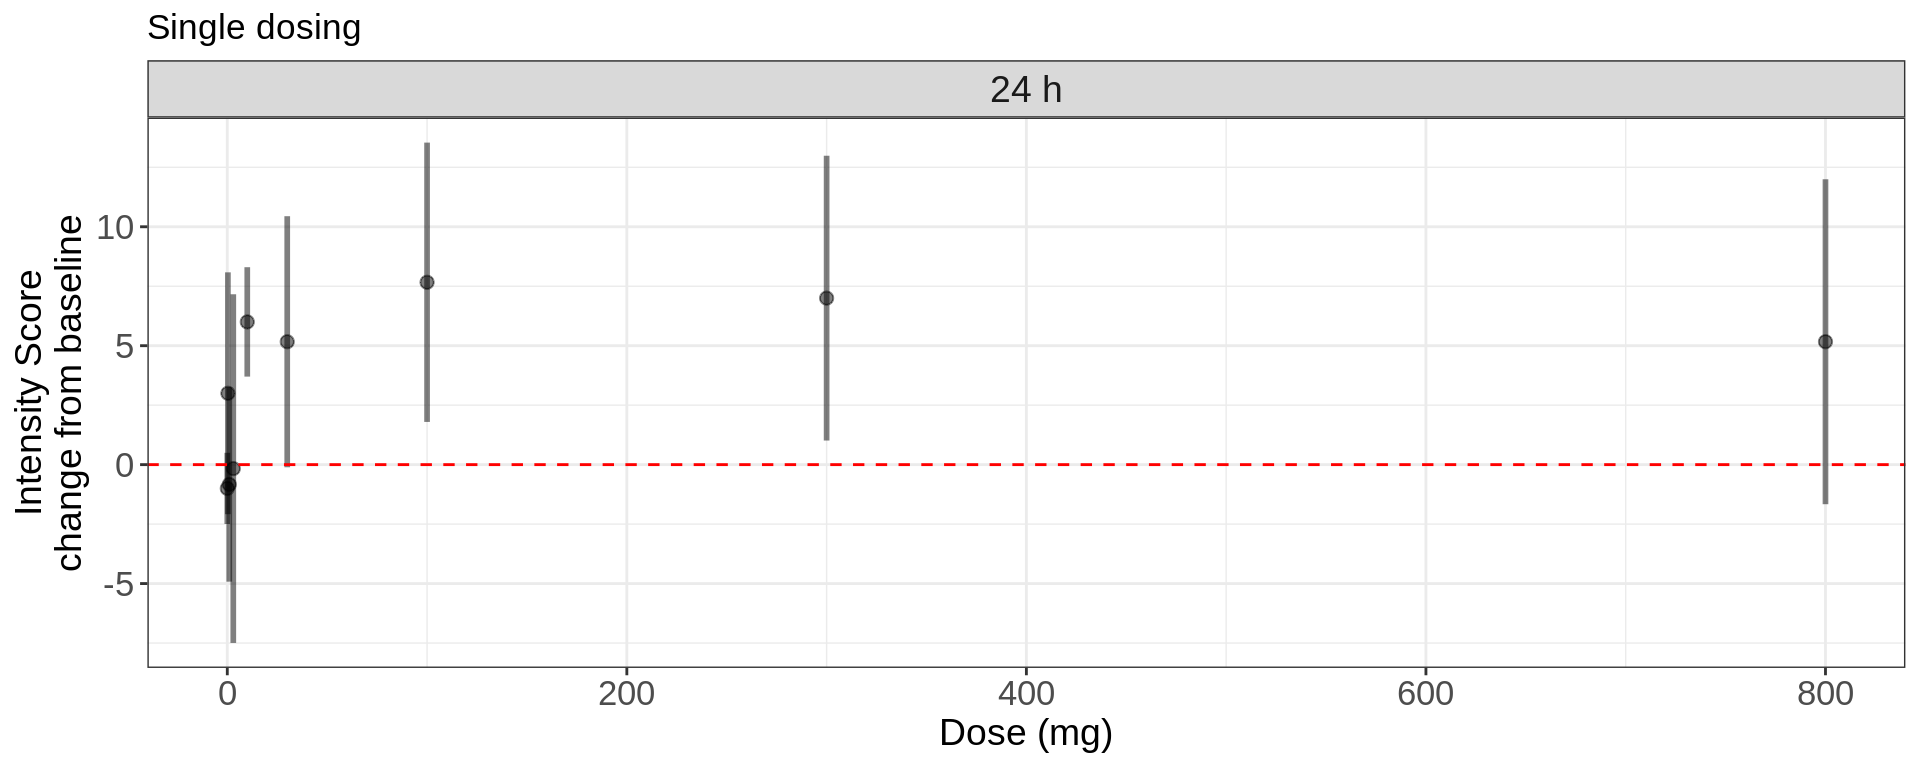
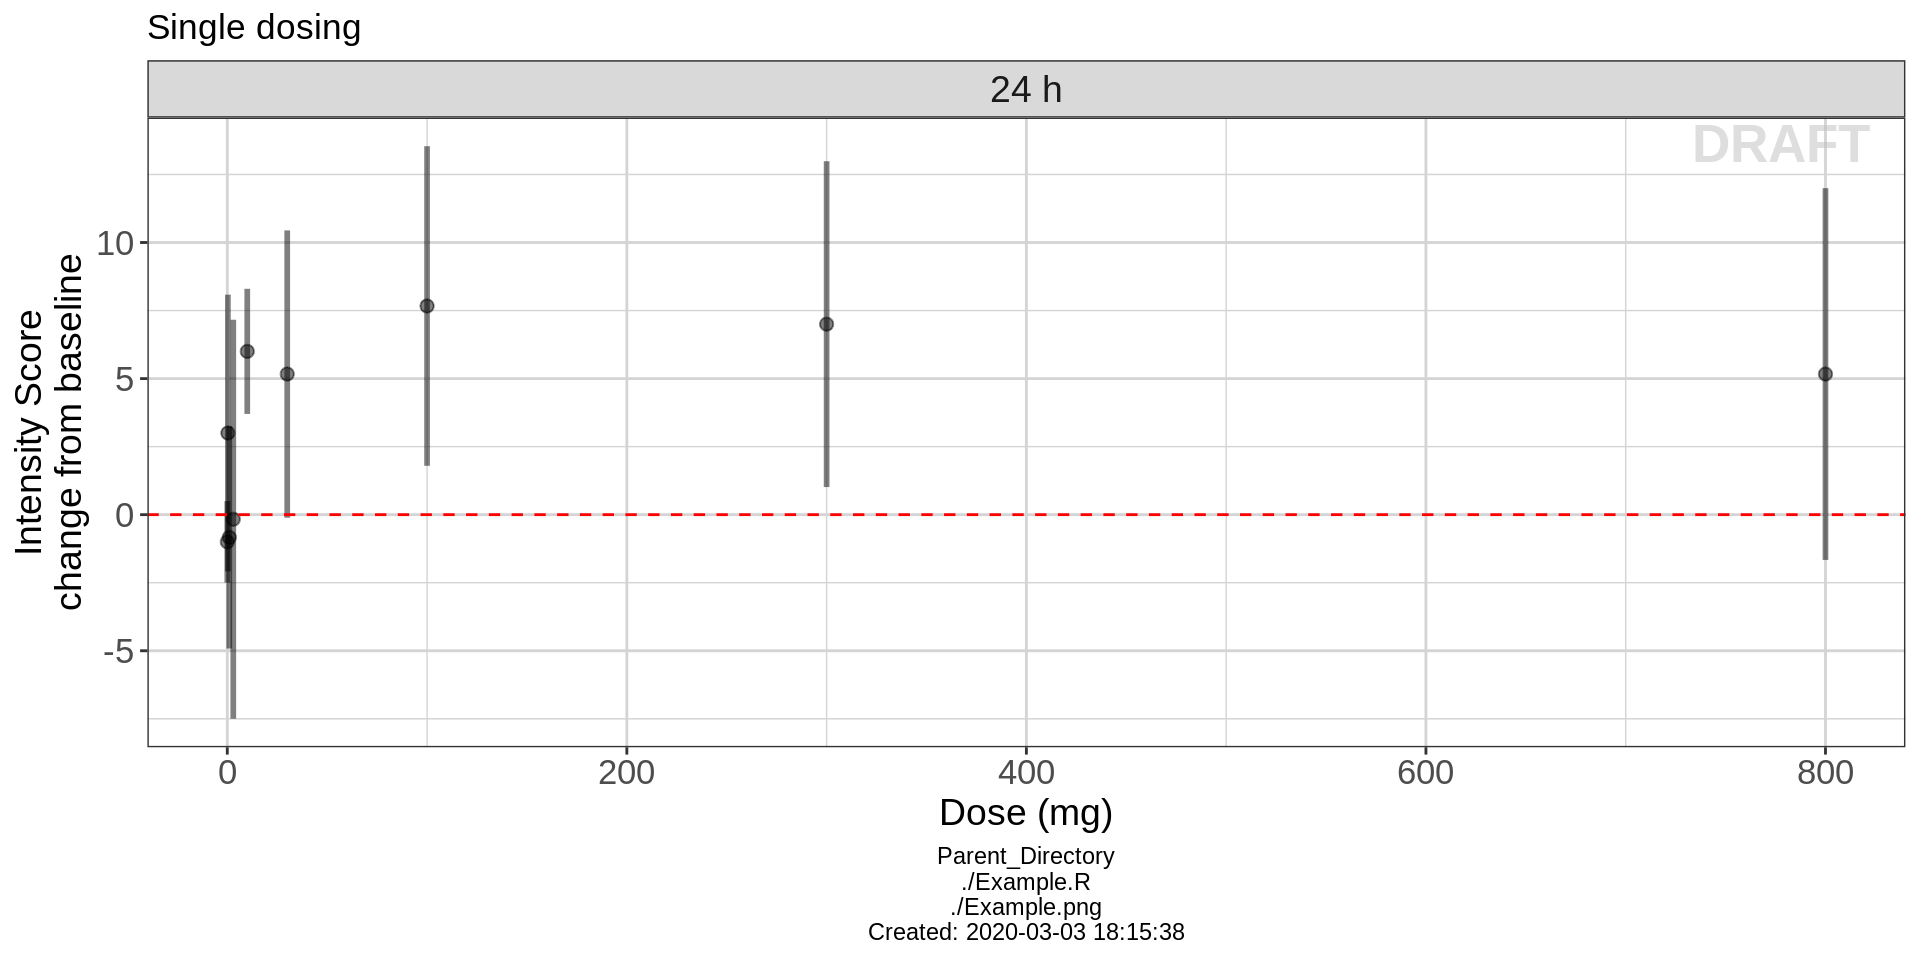
update PD real example page to use xgxr package

diff --git a/Rmarkdown/www/Multiple_Ascending_Dose_PD_real_example.html b/Rmarkdown/www/Multiple_Ascending_Dose_PD_real_example.html
@@ -641,9 +641,9 @@ pd_data &lt;- pkpd_data %&gt;%
   mutate(CHG = LIDV - LIDV[NOMTIME == 0]) ##create column with change from baseline
 
 # Separate the SAD and MAD datasets for plotting
-data_to_plot &lt;- pd_data
-data_to_plot_single_dosing &lt;- data_to_plot %&gt;% subset(MAD == 0)
-data_to_plot_multiple_dosing &lt;- data_to_plot %&gt;% 
+pd_single_dosing &lt;- pd_data %&gt;% 
+  subset(MAD == 0)
+pd_multiple_dosing &lt;- pd_data %&gt;% 
   subset(MAD == 1 &amp; DOSE != 100) ##remove dose = 100mg as there is only zero time for that.
 
 #units and labels
@@ -682,22 +682,23 @@ dirs = list(
 ytitle &lt;- ylab(paste0(pd_label,&quot;\nchange from baseline&quot;))
 xtitle &lt;- xlab(&quot;Time (days)&quot;)
 
-plot2 &lt;- ggplot(data_to_plot_multiple_dosing, 
-                aes(y = CHG, x = PROFDAY, group = NOMTIME)) + 
-  geom_boxplot(width = 5) +
-  ggtitle(&quot;Multiple dosing&quot;) + 
-  theme_bw() +
-  ytitle +
-  xtitle +
-  geom_hline(yintercept = 0,
-             color = &quot;red&quot;,linetype = &quot;dashed&quot;) +
-  scale_x_continuous(breaks = c(-1,7,14)) +
-  theme(axis.text = element_text(size = 13), 
+gg &lt;- ggplot(pd_multiple_dosing, 
+                aes(y = CHG, x = PROFDAY, group = NOMTIME)) 
+gg &lt;- gg + geom_boxplot(width = 5)  
+gg &lt;- gg + ggtitle(&quot;Multiple dosing&quot;)  
+gg &lt;- gg + ytitle  
+gg &lt;- gg + xtitle  
+gg &lt;- gg + geom_hline(yintercept = 0,
+             color = &quot;red&quot;,linetype = &quot;dashed&quot;)  
+gg &lt;- gg +  scale_x_continuous(breaks = c(-1,7,14))  
+gg &lt;- gg +  theme(axis.text = element_text(size = 13), 
         axis.title = element_text(size = 14), 
-        strip.text = element_text(size = 14)) +
-  facet_wrap(~DOSE,nrow = 1, label = labelFun)
+        strip.text = element_text(size = 14))  
+gg &lt;- gg +  facet_wrap(~DOSE,nrow = 1, label = labelFun)
+gg &lt;- gg + xgx_annotate_status()
+gg &lt;- gg + xgx_annotate_filenames(dirs)
 
-plot2</code></pre>
+gg</code></pre>
 <p><img src="Multiple_Ascending_Dose_PD_real_example_files/figure-html/unnamed-chunk-3-1.png" width="960" /></p>
 </div>
 </div>
@@ -713,42 +714,43 @@ plot2</code></pre>
 ytitle &lt;- ylab(paste0(pd_label,&quot;\nchange from baseline&quot;))
 xtitle &lt;- xlab(&quot;Dose (mg)&quot;)
 
-plot1 &lt;- ggplot(data_to_plot_single_dosing, 
-                aes(y = CHG, x = factor(DOSE), group = NOMTIME)) + 
-  geom_boxplot(aes(group = factor(DOSE))) +
-  ggtitle(&quot;Single dosing&quot;) + 
-  theme_bw() +
-  ytitle +
-  xtitle +
-  geom_hline(yintercept = 0,
-             color = &quot;red&quot;,linetype = &quot;dashed&quot;) +
-  theme(axis.text = element_text(size = 13),
+gg &lt;- ggplot(pd_single_dosing, 
+                aes(y = CHG, x = factor(DOSE), group = NOMTIME))  
+gg &lt;- gg + geom_boxplot(aes(group = factor(DOSE)))  
+gg &lt;- gg + ggtitle(&quot;Single dosing&quot;)   
+gg &lt;- gg + ytitle + xtitle   
+gg &lt;- gg + geom_hline(yintercept = 0,
+             color = &quot;red&quot;,linetype = &quot;dashed&quot;)   
+gg &lt;- gg + theme(axis.text = element_text(size = 13),
         axis.title = element_text(size = 14),
-        strip.text = element_text(size = 14)) +
-  facet_wrap(~NOMTIME, nrow = 1, label = labelFun)
+        strip.text = element_text(size = 14))   
+gg &lt;- gg + facet_wrap(~NOMTIME, nrow = 1, label = labelFun)
+gg &lt;- gg + xgx_annotate_status()
+gg &lt;- gg + xgx_annotate_filenames(dirs)
 
-plot1 </code></pre>
+gg</code></pre>
 <p><img src="Multiple_Ascending_Dose_PD_real_example_files/figure-html/unnamed-chunk-4-1.png" width="960" /></p>
 <p>In the plot above, the doses are uniformly spaced, not proportionally spaced according to the numerical value of the doses. Producing this type of plot allows to clearly determine distinctions between different dose groups. However, it is wise to produce plots of dose vs response with dose on a scale proportional to the numerical value of the doses. This allows to more clearly see the shape of the dose-response relationship. Drug ABC123 has a nice dose-response curve shape that resembles a typical Emax model, appearing to plateau around 7.5 change from baseline in intensity score.</p>
 <pre class="r"><code>labelFun &lt;- function(variable,value){     
   paste0(value,&quot; h&quot;)                             
 }
 
-plot1b &lt;- ggplot(data_to_plot_single_dosing %&gt;% subset(NOMTIME == 24,), 
-               aes(y = CHG, x = DOSE, group = NOMTIME)) + 
-  xgx_stat_ci(conf_level = 0.975, geom = c(&quot;point&quot;, &quot;errorbar&quot;), alpha = 0.5) +
-  ggtitle(&quot;Single dosing&quot;) + 
-  theme_bw() +
-  ytitle +
-  xtitle +
-  geom_hline(yintercept = 0, color = &quot;red&quot;, linetype = &quot;dashed&quot;)+
-  #scale_x_log10(breaks = unique(data_to_plot_single_dosing$DOSE))+
-  theme(axis.text = element_text(size = 13),
+gg &lt;- ggplot(pd_single_dosing %&gt;% subset(NOMTIME == 24,), 
+               aes(y = CHG, x = DOSE, group = NOMTIME))   
+gg &lt;- gg + xgx_stat_ci(conf_level = 0.975, 
+                       geom = c(&quot;point&quot;, &quot;errorbar&quot;), 
+                       alpha = 0.5)   
+gg &lt;- gg +  ggtitle(&quot;Single dosing&quot;)   
+gg &lt;- gg +  ytitle +  xtitle   
+gg &lt;- gg +  geom_hline(yintercept = 0, color = &quot;red&quot;, linetype = &quot;dashed&quot;)  
+gg &lt;- gg +  theme(axis.text = element_text(size = 13),
         axis.title = element_text(size = 14),
-        strip.text = element_text(size = 14))+
-  facet_wrap(~NOMTIME, nrow = 1, label = labelFun)
+        strip.text = element_text(size = 14))  
+gg &lt;- gg +  facet_wrap(~NOMTIME, nrow = 1, label = labelFun)
+gg &lt;- gg + xgx_annotate_status()
+gg &lt;- gg + xgx_annotate_filenames(dirs)
 
-plot1b </code></pre>
+gg </code></pre>
 <p><img src="Multiple_Ascending_Dose_PD_real_example_files/figure-html/unnamed-chunk-5-1.png" width="960" /></p>
 </div>
 </div>
